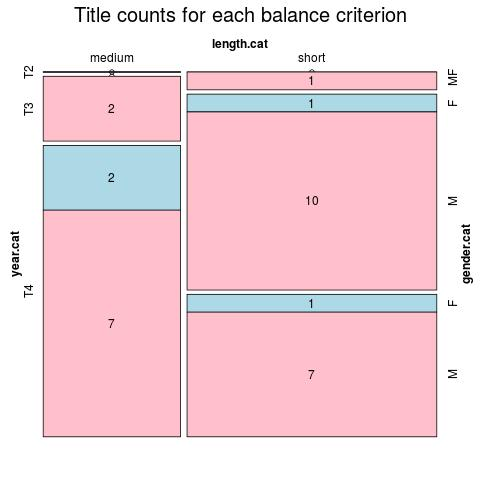
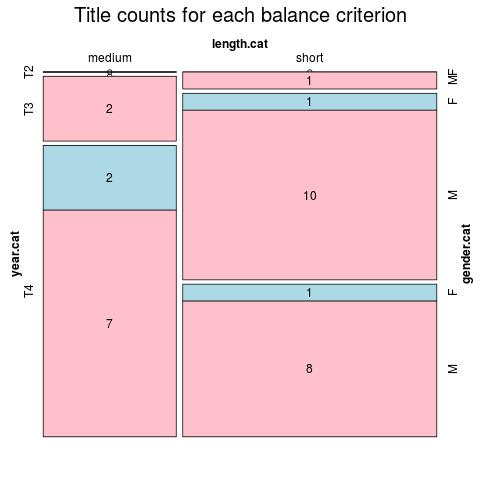
update serbian

diff --git a/ELTeC/srp/index.html b/ELTeC/srp/index.html
@@ -5,7 +5,7 @@
       <title>Contents of ELTeC-srp</title>
    </head>
    <body>
-      <h4>On 2019-11-17 srp has 31 texts containing 1207661 words</h4>
+      <h4>On 2019-12-08 srp has 32 texts containing 1256322 words</h4>
       <p class="graphic"><img src="mosaic.png"><input type="button" value="Explainer" onclick="window.open('../explainer.html','popUpWindow',         'height=600,width=500,left=100,top=100,resizable=yes,         scrollbars=yes,toolbar=no,menubar=no,location=no,directories=no, status=yes');"></p>
       <p class="explain">Click on a column heading to sort. Click on a text identifier to
          read the text (may not work in older browsers).
@@ -334,6 +334,18 @@
             <td>Ђорђевић, Владан (1844-1930)</td>
             <td>M</td>
             <td>low</td>
+         </tr>
+         <tr>
+            <td><a href="SRP19132.html">SRP19132</a></td>
+            <td>eltec-1</td>
+            <td>156</td>
+            <td>48661</td>
+            <td>(short) </td>
+            <td>1913 (T4) </td>
+            <td>Васа Решпект </td>
+            <td>Игњатовић, Јаков (1822-1889)</td>
+            <td>M</td>
+            <td>high</td>
          </tr>
          <tr>
             <td><a href="SRP19140.html">SRP19140</a></td>
